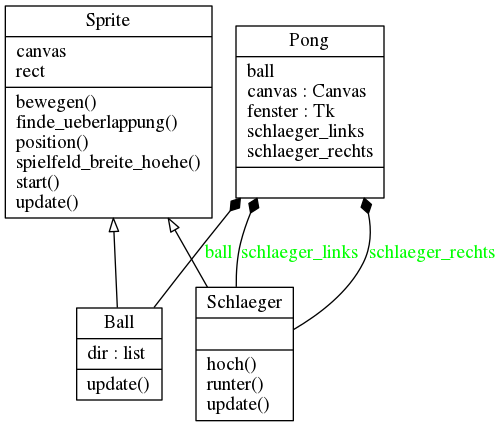
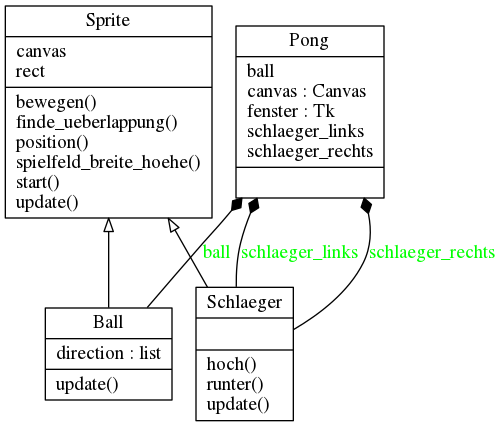
attribute umbenannt.

diff --git a/pong.py b/pong.py
@@ -75,21 +75,21 @@ class Schlaeger(Sprite):
 class Ball(Sprite):
     def __init__(self, canvas, position):
         super().__init__(canvas, position, (10, 10))
-        self.dir = [1,
-                    # y-Komponente zufällig wählen
-                    random.randint(-100, 100) / 100
-                    ]
+        self.direction = [1,
+                          # y-Komponente zufällig wählen
+                          random.randint(-100, 100) / 100
+                          ]
 
     def update(self):
-        self.bewegen(self.dir[0], self.dir[1])
+        self.bewegen(self.direction[0], self.direction[1])
 
         if self._beruehrt_wand_oben_unten():
-            self.dir[1] *= -1
+            self.direction[1] *= -1
 
         elemente = self.finde_ueberlappung()
         if len(elemente) > 0:
-            self.dir[0] *= -1
-            self.dir[1] *= -1
+            self.direction[0] *= -1
+            self.direction[1] *= -1
 
     def _beruehrt_wand_oben_unten(self):
         breite, hoehe = self.spielfeld_breite_hoehe()
